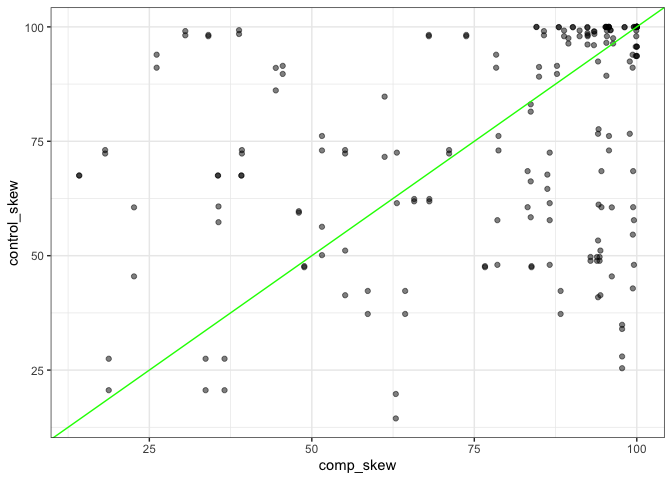
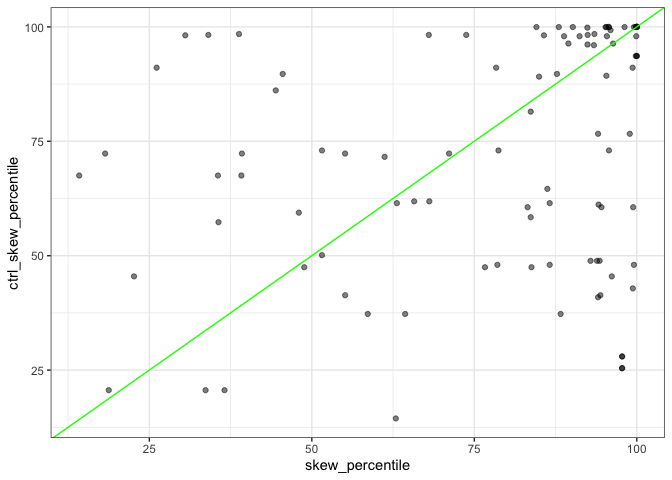
increase macdb samples

diff --git a/analysis/reports/vetting.md b/analysis/reports/vetting.md
@@ -112,34 +112,74 @@ By treatment - overall
 
 ![](vetting_files/figure-markdown_github/macd%20trtmt%20overall-1.png)![](vetting_files/figure-markdown_github/macd%20trtmt%20overall-2.png)
 
-<!-- ** I AM REALLY NOT CONFIDENT IN THE DATA HANDLING HERE, NEED TO REVISIT WHEN SHARPER ** -->
-<!-- ```{r macd ctrlcomp} -->
-<!-- macd_comparisons <- read.csv(here::here("working-data", "macdb_data", "orderedcomparisons.csv"), header = F, stringsAsFactors = F) -->
-<!-- colnames(macd_comparisons) <- c("studyID", "control", "site") -->
-<!-- macd_comparisons <- macd_comparisons %>% -->
-<!--   mutate(site = as.character(site), control = as.character(control)) -->
-<!-- cc_di <- all_di_macd %>% -->
-<!--   filter(singletons == FALSE, treatment == "comparison") %>% -->
-<!--   left_join(macd_comparisons, by = c("studyID", "site")) %>% -->
-<!--   select(dat, site, skew_percentile, simpson_percentile, studyID, control) %>% -->
-<!--   rename(comparison = site) %>% -->
-<!--  left_join(select(all_di_macd, skew_percentile, simpson_percentile, site, singletons, nsamples), by = c("control" = "site")) %>% -->
-<!--   distinct() %>% -->
-<!--   rename(comp_skew = skew_percentile.x, comp_simp = simpson_percentile.x, -->
-<!--          control_skew = skew_percentile.y, control_simp = simpson_percentile.y) -->
-<!-- ggplot(data = cc_di, aes(x = comp_skew, y = control_skew)) + -->
-<!--   geom_point(alpha = .5) + -->
-<!-- #  xlim(0, 100) + -->
-<!--  # ylim(0, 100) + -->
-<!--   theme_bw() + -->
-<!--   geom_abline(intercept = 0, slope = 1, color = "green") -->
-<!-- ggplot(data = cc_di, aes(x = comp_simp, y = control_simp)) + -->
-<!--   geom_point(alpha = .5) + -->
-<!--  xlim(0, 100) + -->
-<!--  ylim(0, 100) + -->
-<!--   theme_bw() + -->
-<!--   geom_abline(intercept = 0, slope = 1, color = "green") -->
-<!-- ``` -->
+    ## Warning: Removed 4 rows containing missing values (geom_point).
+
+![](vetting_files/figure-markdown_github/macd%20ctrlcomp-1.png)
+
+    ## Warning: Removed 4 rows containing missing values (geom_point).
+
+![](vetting_files/figure-markdown_github/macd%20ctrlcomp-2.png)
+
+    ## `stat_bin()` using `bins = 30`. Pick better value with `binwidth`.
+
+    ## Warning: Removed 4 rows containing non-finite values (stat_bin).
+
+![](vetting_files/figure-markdown_github/macd%20ctrlcomp-3.png)
+
+    ## `stat_bin()` using `bins = 30`. Pick better value with `binwidth`.
+
+    ## Warning: Removed 4 rows containing non-finite values (stat_bin).
+
+![](vetting_files/figure-markdown_github/macd%20ctrlcomp-4.png)
+
+    ## Warning: Removed 4 rows containing missing values (geom_point).
+
+![](vetting_files/figure-markdown_github/macd%20ctrlcomp-5.png)
+
+    ## Warning: Removed 4 rows containing missing values (geom_point).
+
+![](vetting_files/figure-markdown_github/macd%20ctrlcomp-6.png)
+
+    ## 
+    ##  Paired t-test
+    ## 
+    ## data:  cc_di$skew_percentile and cc_di$ctrl_skew_percentile
+    ## t = 1.5924, df = 96, p-value = 0.1146
+    ## alternative hypothesis: true difference in means is not equal to 0
+    ## 95 percent confidence interval:
+    ##  -1.223516 11.149568
+    ## sample estimates:
+    ## mean of the differences 
+    ##                4.963026
+
+    ## 
+    ##  Paired t-test
+    ## 
+    ## data:  cc_di$simpson_percentile and cc_di$ctrl_simpson_percentile
+    ## t = -0.61475, df = 96, p-value = 0.5402
+    ## alternative hypothesis: true difference in means is not equal to 0
+    ## 95 percent confidence interval:
+    ##  -6.435332  3.391834
+    ## sample estimates:
+    ## mean of the differences 
+    ##               -1.521749
+
+    ## 
+    ##  Wilcoxon signed rank test with continuity correction
+    ## 
+    ## data:  cc_di$skew_percentile and cc_di$ctrl_skew_percentile
+    ## V = 2418, p-value = 0.199
+    ## alternative hypothesis: true location shift is not equal to 0
+
+    ## 
+    ##  Wilcoxon signed rank test with continuity correction
+    ## 
+    ## data:  cc_di$simpson_percentile and cc_di$ctrl_simpson_percentile
+    ## V = 1803, p-value = 0.773
+    ## alternative hypothesis: true location shift is not equal to 0
+
+-   change is going to be bounded at 100 and 0: you can't go up or down from there. (Another argument for increasing the number of samples?)
+
 Portal plant manips
 ===================
 
